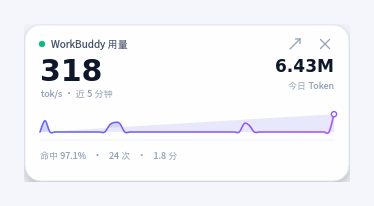
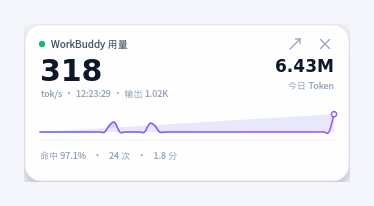
修正：悬浮窗改用最近一次调用的实时速度
- 原先取最近 5 分钟加权平均，与「实时」语义不符
- 改为 recent[0] 的速度，副标题显示调用时间与输出 tokens
- 超过 3 分钟无调用时置灰并标注空闲时长
- 主窗口状态栏的刷新间隔跟随设置，不再写死 1.6 秒
- 切换间隔时重置绘制限流，文案即时更新

diff --git a/qt_app.py b/qt_app.py
@@ -98,6 +98,23 @@ def NUM(px, weight=QFont.Normal):
     return f
 
 
+def ago_text(sec):
+    if sec < 60:
+        return "刚刚"
+    if sec < 3600:
+        return "%d 分钟" % (sec // 60)
+    if sec < 86400:
+        return "%d 小时" % (sec // 3600)
+    return "%d 天" % (sec // 86400)
+
+
+def fmt_sec(ms):
+    s = (ms or 0) / 1000.0
+    if abs(s - round(s)) < 0.05:
+        return "%d" % int(round(s))
+    return "%.1f" % s
+
+
 def compact(n):
     n = float(n or 0)
     if n >= 1e9:
@@ -1346,18 +1363,28 @@ class MiniWindow(QWidget):
         k = data.get("kpi") or {}
         gen = data.get("generated_at") or 0
 
-        recent = [x for x in (data.get("recent") or [])
-                  if x.get("dur") and x["dur"] > 200 and gen - x["t"] < 300000]
+        # 取最近一次调用，而不是窗口内的平均值——悬浮窗要的是「此刻」
+        rows = data.get("recent") or []
+        last = rows[0] if rows else None
         speed = 0.0
-        if recent:
-            dsum = sum(x["dur"] for x in recent)
-            osum = sum(x["out"] for x in recent)
-            speed = osum / (dsum / 1000.0) if dsum else 0.0
+        idle = False
+        if last is None:
+            sub = "等待调用"
+        else:
+            speed = last.get("speed") or 0.0
+            age = max(0.0, (gen - last["t"]) / 1000.0)
+            if age > 180:
+                idle = True
+                sub = "空闲 · %s前" % ago_text(age)
+            else:
+                sub = "tok/s · %s · 输出 %s" % (
+                    time.strftime("%H:%M:%S", time.localtime(last["t"] / 1000.0)),
+                    compact(last.get("out") or 0))
 
         p.setFont(NUM(30, QFont.DemiBold))
-        p.setPen(INK)
+        p.setPen(INK3 if idle else INK)
         p.drawText(QRectF(16, 30, 120, 34), int(Qt.AlignLeft | Qt.AlignVCenter), "%.0f" % speed)
-        txt(p, QRectF(17, 63, 140, 13), "tok/s · 近 5 分钟", F(9), INK3)
+        txt(p, QRectF(17, 63, 190, 13), sub, F(9), INK3)
 
         txt(p, QRectF(W - 168, 31, 152, 22), compact(k.get("tokens", 0)),
             NUM(17, QFont.DemiBold), INK, Qt.AlignRight | Qt.AlignVCenter)
@@ -1533,6 +1560,7 @@ class MainWindow(QMainWindow):
         save_ui_conf(refresh_ms=self.refresh_ms)
         if self.mini is not None:
             self.mini.set_refresh(self.refresh_ms)
+        self._last_version = -1
         self.refresh()
 
     # ---- 悬浮窗
@@ -1630,8 +1658,9 @@ class MainWindow(QMainWindow):
 
         t = time.localtime(data["generated_at"] / 1000.0)
         self.header.set_status(
-            "最近更新 %s · 每 1.6 秒自动刷新 · %d 条调用记录"
-            % (time.strftime("%H:%M:%S", t), data["status"]["records"]))
+            "最近更新 %s · 每 %s 秒自动刷新 · %d 条调用记录"
+            % (time.strftime("%H:%M:%S", t), fmt_sec(self.refresh_ms),
+               data["status"]["records"]))
         self.foot_label.setText(
             "数据源：%s　·　%d 个会话文件　·　%d 条调用记录"
             % (data["status"]["source"], data["status"]["files"], data["status"]["records"]))

diff --git a/README.en.md b/README.en.md
@@ -71,7 +71,7 @@ If PyQt5 is missing, the launcher falls back to `--web` instead of failing.
 | Cache hit rate | Per-bucket hit-rate line with an 80% reference |
 | Sessions | Tokens, calls, hit rate, speed, credits and context usage per session |
 | Live calls | The latest 6 calls with input/output, measured speed and credits |
-| Mini window | The "悬浮" button collapses everything into a 326×158 always-on-top card: live speed, today's tokens, a mini throughput curve, hit rate and credits |
+| Mini window | The "悬浮" button collapses everything into a 326×158 always-on-top card: the latest call's speed, today's tokens, a mini throughput curve, hit rate and credits |
 
 Use the top bar to switch between **Today / Last 7 days / All**. Charts show details on hover.
 

diff --git a/README.md b/README.md
@@ -70,7 +70,7 @@ cd workbuddy-token-monitor
 | 缓存命中率 | 按时间桶的命中率折线，80% 参考线 |
 | 会话排行 | 各会话的 token、调用数、命中率、速度、积分、上下文占用 |
 | 实时调用流 | 最新 6 次调用，含输入/输出、实测速度与积分 |
-| 悬浮小窗 | 顶部「悬浮」按钮缩成 326×158 的置顶卡片：实时速度、今日 Token、迷你吞吐曲线、命中率与积分 |
+| 悬浮小窗 | 顶部「悬浮」按钮缩成 326×158 的置顶卡片：最近一次调用的速度、今日 Token、迷你吞吐曲线、命中率与积分 |
 
 顶部可切换「今日 / 近 7 天 / 全部」，图表支持鼠标悬停查看明细。
 
